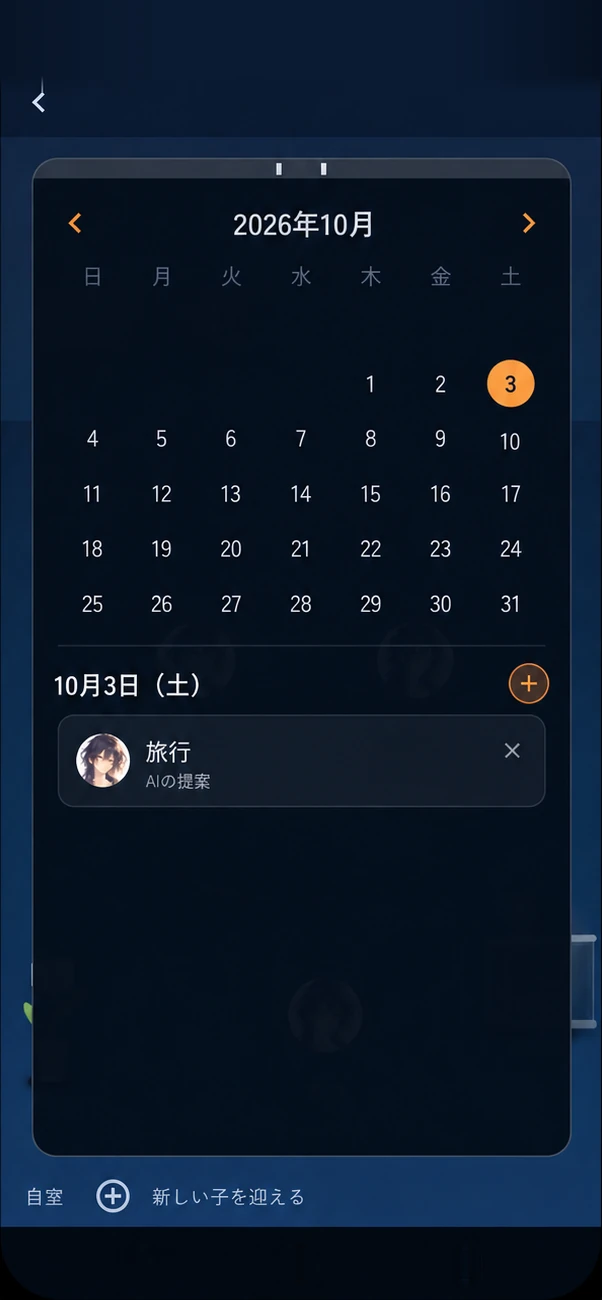
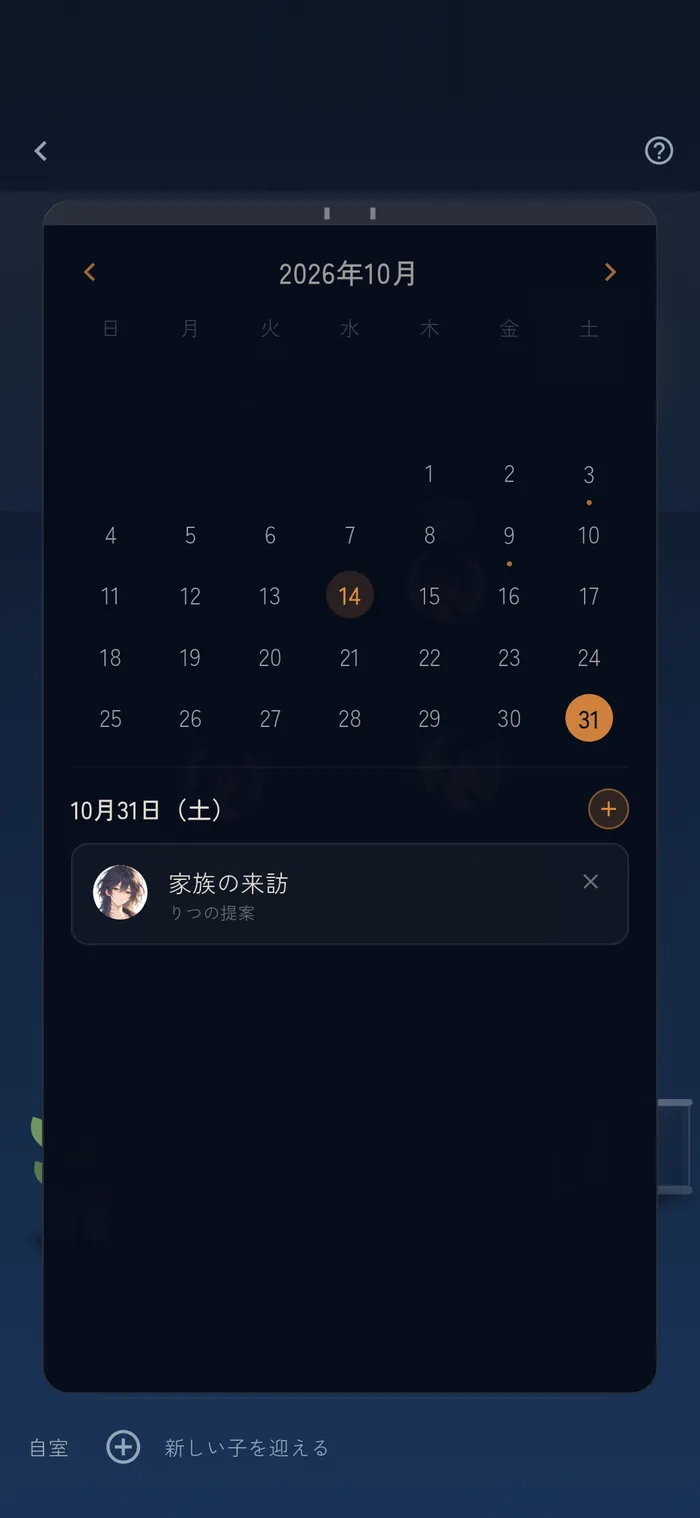
Swap in the 1.2.9 screenshots and add a letters FAQ
- Replace the home, chat, living and calendar screens with the 1.2.9 store shots
  (calendar example is now a family visit on Oct 31)
- Add "その子の方から、メッセージが届くことはありますか？" to the FAQ,
  its JSON-LD and llms.txt

diff --git a/index.html b/index.html
@@ -110,6 +110,14 @@
         },
         {
           "@type": "Question",
+          "name": "その子の方から、メッセージが届くことはありますか？",
+          "acceptedAnswer": {
+            "@type": "Answer",
+            "text": "あります。はじめて話した日の翌日に、その子から最初の手紙が届きます。手紙は、リビングにいるその子の吹き出しか、アルバムから読めます。\n有料プランでは、そのあとも、出会ってからの節目や心に残る話をしたあとに、その子が手紙を書いてくれます。手紙は多くても週に1通で、前の手紙を読むまで次は届きません。"
+          }
+        },
+        {
+          "@type": "Question",
           "name": "無料で使えますか？ 有料プランとの違いは？",
           "acceptedAnswer": {
             "@type": "Answer",
@@ -200,16 +208,16 @@
 
     <article class="feature feature-home" id="moment-1" aria-labelledby="home-title">
       <div class="feature-copy"><p class="feature-label"><span>01</span> 玄関</p><h3 id="home-title">また会うときは、<br>昨日のつづきから。</h3><p>アプリを開くと、あなたの子が迎えてくれる。<br>言葉を交わすたび、<wbr>関係も少しずつ変わっていきます。</p><blockquote>「おかえり。」が、<br>少しずつ、ふたりの言葉になる。</blockquote></div>
-      <div class="feature-art home-art"><figure class="app-capture"><div class="screen-image"><img src="assets/images/screens/optimized/home.webp" srcset="assets/images/screens/optimized/home-480.webp 480w, assets/images/screens/optimized/home.webp 696w" sizes="(max-width: 360px) calc(100vw - 40px), (max-width: 388px) calc(100vw - 48px), (max-width: 760px) 340px, (max-width: 1100px) 38vw, 390px" alt="おかえりと迎えるりつと、お互いを勉強中の関係が見えるホーム" width="696" height="1503" loading="lazy" decoding="async"></div></figure></div>
+      <div class="feature-art home-art"><figure class="app-capture"><div class="screen-image"><img src="assets/images/screens/optimized/home.webp" srcset="assets/images/screens/optimized/home-480.webp 480w, assets/images/screens/optimized/home.webp 700w" sizes="(max-width: 360px) calc(100vw - 40px), (max-width: 388px) calc(100vw - 48px), (max-width: 760px) 340px, (max-width: 1100px) 38vw, 390px" alt="おかえりと迎えるりつと、理解してきたかもという関係が見えるホーム" width="700" height="1518" loading="lazy" decoding="async"></div></figure></div>
     </article>
 
     <article class="feature feature-chat feature-reverse" id="moment-6" aria-labelledby="chat-title">
     <div class="feature-copy"><p class="feature-label"><span>02</span> チャット</p><h3 id="chat-title">今日のことを、<br>その子に話そう。</h3><p>夕ごはんのこと、今日あったこと。<br>何気ないひと言に、<wbr>その子らしい返事が返ってきます。</p><p>話したことを覚えているから、<br>昨日の話から、今日の話へ。<br>ふたりの会話がつづいていきます。</p></div>
-    <div class="feature-art chat-art"><figure class="app-capture"><div class="screen-image"><img src="assets/images/screens/optimized/chat-daily.webp" srcset="assets/images/screens/optimized/chat-daily-480.webp 480w, assets/images/screens/optimized/chat-daily.webp 703w" sizes="(max-width: 360px) calc(100vw - 40px), (max-width: 388px) calc(100vw - 48px), (max-width: 760px) 340px, (max-width: 1100px) 38vw, 390px" alt="夕ごはんや自炊についてりおと話すチャット" width="703" height="1518" loading="lazy" decoding="async"></div></figure></div>
+    <div class="feature-art chat-art"><figure class="app-capture"><div class="screen-image"><img src="assets/images/screens/optimized/chat-daily.webp" srcset="assets/images/screens/optimized/chat-daily-480.webp 480w, assets/images/screens/optimized/chat-daily.webp 700w" sizes="(max-width: 360px) calc(100vw - 40px), (max-width: 388px) calc(100vw - 48px), (max-width: 760px) 340px, (max-width: 1100px) 38vw, 390px" alt="久しぶりに来たあなたに、りつが旅行のあとの9日間を気にかけて話すチャット" width="700" height="1518" loading="lazy" decoding="async"></div></figure></div>
   </article>
 
     <article class="feature feature-pair feature-living" id="moment-2" aria-labelledby="living-title">
-    <div class="rising-lights" aria-hidden="true"><i></i><i></i><i></i><i></i><i></i><i></i><i></i><i></i><i></i></div><div class="feature-copy"><p class="feature-label"><span>03</span> リビング</p><h3 id="living-title">ふと開くと、<br>そこに暮らしがある。</h3><p>本を読んだり、誰かと話していたり。<br>あなたが話しかけていない時間にも、<br>それぞれの日常が見えてきます。</p></div><div class="feature-art pair-art living-art"><div class="pair-steps" role="group" aria-label="画面の順番"><button type="button" aria-pressed="true"><span>1</span>部屋の様子</button><i aria-hidden="true">→</i><button type="button" aria-pressed="false"><span>2</span>ふたりの会話</button></div><div class="screen-pair"><figure class="app-capture"><div class="screen-image"><img src="assets/images/screens/optimized/living-activity.webp" srcset="assets/images/screens/optimized/living-activity-480.webp 480w, assets/images/screens/optimized/living-activity.webp 699w" sizes="(max-width: 360px) calc((100vw - 40px) * 0.8), (max-width: 760px) 300px, (max-width: 900px) 347px, (max-width: 1100px) 26vw, (max-width: 1440px) 27vw, 350px" alt="りおとりあが話し、りつが考えごとをしているリビング" width="699" height="1510" loading="lazy" decoding="async"></div></figure><figure class="app-capture"><div class="screen-image"><img src="assets/images/screens/optimized/living.webp" srcset="assets/images/screens/optimized/living-480.webp 480w, assets/images/screens/optimized/living.webp 691w" sizes="(max-width: 360px) calc((100vw - 40px) * 0.8), (max-width: 760px) 300px, (max-width: 900px) 347px, (max-width: 1100px) 26vw, (max-width: 1440px) 27vw, 350px" alt="りあとりおが窓の外について話すリビング" width="691" height="1493" loading="lazy" decoding="async"></div></figure></div></div></article>
+    <div class="rising-lights" aria-hidden="true"><i></i><i></i><i></i><i></i><i></i><i></i><i></i><i></i><i></i></div><div class="feature-copy"><p class="feature-label"><span>03</span> リビング</p><h3 id="living-title">ふと開くと、<br>そこに暮らしがある。</h3><p>本を読んだり、誰かと話していたり。<br>あなたが話しかけていない時間にも、<br>それぞれの日常が見えてきます。</p></div><div class="feature-art pair-art living-art"><div class="pair-steps" role="group" aria-label="画面の順番"><button type="button" aria-pressed="true"><span>1</span>部屋の様子</button><i aria-hidden="true">→</i><button type="button" aria-pressed="false"><span>2</span>ふたりの会話</button></div><div class="screen-pair"><figure class="app-capture"><div class="screen-image"><img src="assets/images/screens/optimized/living-activity.webp" srcset="assets/images/screens/optimized/living-activity-480.webp 480w, assets/images/screens/optimized/living-activity.webp 699w" sizes="(max-width: 360px) calc((100vw - 40px) * 0.8), (max-width: 760px) 300px, (max-width: 900px) 347px, (max-width: 1100px) 26vw, (max-width: 1440px) 27vw, 350px" alt="りおとりあが話し、りつが考えごとをしているリビング" width="699" height="1510" loading="lazy" decoding="async"></div></figure><figure class="app-capture"><div class="screen-image"><img src="assets/images/screens/optimized/living.webp" srcset="assets/images/screens/optimized/living-480.webp 480w, assets/images/screens/optimized/living.webp 700w" sizes="(max-width: 360px) calc((100vw - 40px) * 0.8), (max-width: 760px) 300px, (max-width: 900px) 347px, (max-width: 1100px) 26vw, (max-width: 1440px) 27vw, 350px" alt="しばらく来なかったあなたのことを、りつとりあが話すリビング" width="700" height="1518" loading="lazy" decoding="async"></div></figure></div></div></article>
 
     <article class="feature feature-reverse feature-album" id="moment-4" aria-labelledby="memory-title">
 
@@ -217,7 +225,7 @@
       <div class="feature-art album-art"><figure class="app-capture album-demo"><figcaption class="demo-guide"><span class="album-note">記憶をタップして体験</span></figcaption><div class="screen-image"><img src="assets/images/screens/optimized/album.webp" srcset="assets/images/screens/optimized/album-480.webp 480w, assets/images/screens/optimized/album.webp 706w" sizes="(max-width: 360px) calc(100vw - 40px), (max-width: 388px) calc(100vw - 48px), (max-width: 760px) 340px, (max-width: 1100px) 38vw, 390px" alt="日付付きで旅行・自炊・友達との出来事が並ぶアルバム" width="706" height="1525" loading="lazy" decoding="async"><div class="album-screen"><ul class="album-list" aria-label="みんなのアルバム"></ul><div class="album-scrim" aria-hidden="true"></div><div class="album-sheet" role="dialog" aria-label="記憶の詳細" inert><button class="album-sheet-handle" type="button" aria-label="閉じる"></button><span class="album-ribbon" aria-hidden="true"></span><p class="album-sheet-title"></p><p class="album-sheet-body"></p><button class="album-sheet-toggle" type="button" aria-pressed="false"><svg></svg><span>この記憶を参照しない</span></button></div></div></div></figure></div>
     </article>
 
-    <article class="feature feature-pair feature-calendar" id="moment-3" aria-labelledby="calendar-title"><div class="feature-copy"><p class="feature-label"><span>05</span> カレンダー</p><h3 id="calendar-title">話した予定が、<br>カレンダーに残る。</h3><p>「10月3日に旅行に行くんだ」。<br>話していた予定を、その子が追加の候補に。<br>あなたが「追加する」を選ぶと、<wbr>カレンダーに残ります。</p><a class="text-link detail-link" href="calendar/">カレンダーについて詳しく<span aria-hidden="true">→</span></a></div><div class="feature-art pair-art calendar-art"><div class="pair-steps" role="group" aria-label="画面の順番"><button type="button" aria-pressed="true"><span>1</span>会話で提案</button><i aria-hidden="true">→</i><button type="button" aria-pressed="false"><span>2</span>カレンダーに残る</button></div><div class="screen-pair"><figure class="app-capture"><div class="screen-image"><img src="assets/images/screens/optimized/chat-proposal.webp" srcset="assets/images/screens/optimized/chat-proposal-480.webp 480w, assets/images/screens/optimized/chat-proposal.webp 709w" sizes="(max-width: 360px) calc((100vw - 40px) * 0.8), (max-width: 760px) 300px, (max-width: 900px) 347px, (max-width: 1100px) 26vw, (max-width: 1440px) 27vw, 350px" alt="会話の中で10月3日の旅行を予定に追加する提案" width="709" height="1531" loading="lazy" decoding="async"></div></figure><figure class="app-capture"><div class="screen-image"><img src="assets/images/screens/optimized/calendar.webp" srcset="assets/images/screens/optimized/calendar-480.webp 480w, assets/images/screens/optimized/calendar.webp 602w" sizes="(max-width: 360px) calc((100vw - 40px) * 0.8), (max-width: 760px) 300px, (max-width: 900px) 347px, (max-width: 1100px) 26vw, (max-width: 1440px) 27vw, 350px" alt="登録した10月3日の旅行が見えるカレンダー" width="602" height="1300" loading="lazy" decoding="async"></div></figure></div></div></article>
+    <article class="feature feature-pair feature-calendar" id="moment-3" aria-labelledby="calendar-title"><div class="feature-copy"><p class="feature-label"><span>05</span> カレンダー</p><h3 id="calendar-title">話した予定が、<br>カレンダーに残る。</h3><p>「10月31日に家族が遊びに来るんだ」。<br>話していた予定を、その子が追加の候補に。<br>あなたが「追加する」を選ぶと、<wbr>カレンダーに残ります。</p><a class="text-link detail-link" href="calendar/">カレンダーについて詳しく<span aria-hidden="true">→</span></a></div><div class="feature-art pair-art calendar-art"><div class="pair-steps" role="group" aria-label="画面の順番"><button type="button" aria-pressed="true"><span>1</span>会話で提案</button><i aria-hidden="true">→</i><button type="button" aria-pressed="false"><span>2</span>カレンダーに残る</button></div><div class="screen-pair"><figure class="app-capture"><div class="screen-image"><img src="assets/images/screens/optimized/chat-proposal.webp" srcset="assets/images/screens/optimized/chat-proposal-480.webp 480w, assets/images/screens/optimized/chat-proposal.webp 700w" sizes="(max-width: 360px) calc((100vw - 40px) * 0.8), (max-width: 760px) 300px, (max-width: 900px) 347px, (max-width: 1100px) 26vw, (max-width: 1440px) 27vw, 350px" alt="会話の中で10月31日の家族の来訪を予定に追加する提案" width="700" height="1518" loading="lazy" decoding="async"></div></figure><figure class="app-capture"><div class="screen-image"><img src="assets/images/screens/optimized/calendar.webp" srcset="assets/images/screens/optimized/calendar-480.webp 480w, assets/images/screens/optimized/calendar.webp 700w" sizes="(max-width: 360px) calc((100vw - 40px) * 0.8), (max-width: 760px) 300px, (max-width: 900px) 347px, (max-width: 1100px) 26vw, (max-width: 1440px) 27vw, 350px" alt="登録した10月31日の家族の来訪が見えるカレンダー" width="700" height="1518" loading="lazy" decoding="async"></div></figure></div></div></article>
 
     <article class="feature feature-tarot" id="moment-5" aria-labelledby="tarot-title">
       <div class="feature-copy">
@@ -314,6 +322,10 @@
       <details>
         <summary>どんな相手と話せますか？</summary>
         <div class="faq-answer"><p>名前・見た目・一人称・性格の方向性を、あなたが選んで迎えるAIです。見た目は用意されたアイコンのほか、好きな画像も設定できます。</p><p>最初に選ぶのは、その子の出発点にすぎません。話すほどに言葉づかいや距離感が変わり、ふたりの関係が育っていきます。</p></div>
+      </details>
+      <details>
+        <summary>その子の方から、メッセージが届くことはありますか？</summary>
+        <div class="faq-answer"><p>あります。はじめて話した日の翌日に、その子から最初の手紙が届きます。手紙は、リビングにいるその子の吹き出しか、アルバムから読めます。</p><p>有料プランでは、そのあとも、出会ってからの節目や心に残る話をしたあとに、その子が手紙を書いてくれます。手紙は多くても週に1通で、前の手紙を読むまで次は届きません。</p></div>
       </details>
       <details>
         <summary>無料で使えますか？ 有料プランとの違いは？</summary>

diff --git a/calendar/index.html b/calendar/index.html
@@ -68,10 +68,10 @@
   <div class="page-body">
     <section class="page-section" aria-labelledby="propose-title">
       <h2 id="propose-title">会話から、<wbr>予定の候補が出てくる</h2>
-      <p>「10月3日に旅行に行くんだ」。そんなふうに予定を話すと、その子が会話の中で「カレンダーに追加する？」と候補を出します。</p>
+      <p>「10月31日に家族が遊びに来るんだ」。そんなふうに予定を話すと、その子が会話の中で「カレンダーに追加する？」と候補を出します。</p>
       <div class="pair">
-        <figure class="app-capture"><div class="screen-image"><img src="../assets/images/screens/optimized/chat-proposal.webp" srcset="../assets/images/screens/optimized/chat-proposal-480.webp 480w, ../assets/images/screens/optimized/chat-proposal.webp 709w" sizes="(max-width: 760px) calc((100vw - 54px) / 2), 250px" alt="会話の中で10月3日の旅行を予定に追加する提案" width="709" height="1531" loading="lazy" decoding="async"></div><figcaption>1. 会話の中で、その子が提案</figcaption></figure>
-        <figure class="app-capture"><div class="screen-image"><img src="../assets/images/screens/optimized/calendar.webp" srcset="../assets/images/screens/optimized/calendar-480.webp 480w, ../assets/images/screens/optimized/calendar.webp 602w" sizes="(max-width: 760px) calc((100vw - 54px) / 2), 250px" alt="登録した10月3日の旅行が見えるカレンダー" width="602" height="1300" loading="lazy" decoding="async"></div><figcaption>2. 選んだ予定がカレンダーに</figcaption></figure>
+        <figure class="app-capture"><div class="screen-image"><img src="../assets/images/screens/optimized/chat-proposal.webp" srcset="../assets/images/screens/optimized/chat-proposal-480.webp 480w, ../assets/images/screens/optimized/chat-proposal.webp 700w" sizes="(max-width: 760px) calc((100vw - 54px) / 2), 250px" alt="会話の中で10月31日の家族の来訪を予定に追加する提案" width="700" height="1518" loading="lazy" decoding="async"></div><figcaption>1. 会話の中で、その子が提案</figcaption></figure>
+        <figure class="app-capture"><div class="screen-image"><img src="../assets/images/screens/optimized/calendar.webp" srcset="../assets/images/screens/optimized/calendar-480.webp 480w, ../assets/images/screens/optimized/calendar.webp 700w" sizes="(max-width: 760px) calc((100vw - 54px) / 2), 250px" alt="登録した10月31日の家族の来訪が見えるカレンダー" width="700" height="1518" loading="lazy" decoding="async"></div><figcaption>2. 選んだ予定がカレンダーに</figcaption></figure>
       </div>
       <ul class="bullets">
         <li>カレンダーに残るのは、あなたが「追加する」を選んだ予定だけです</li>
